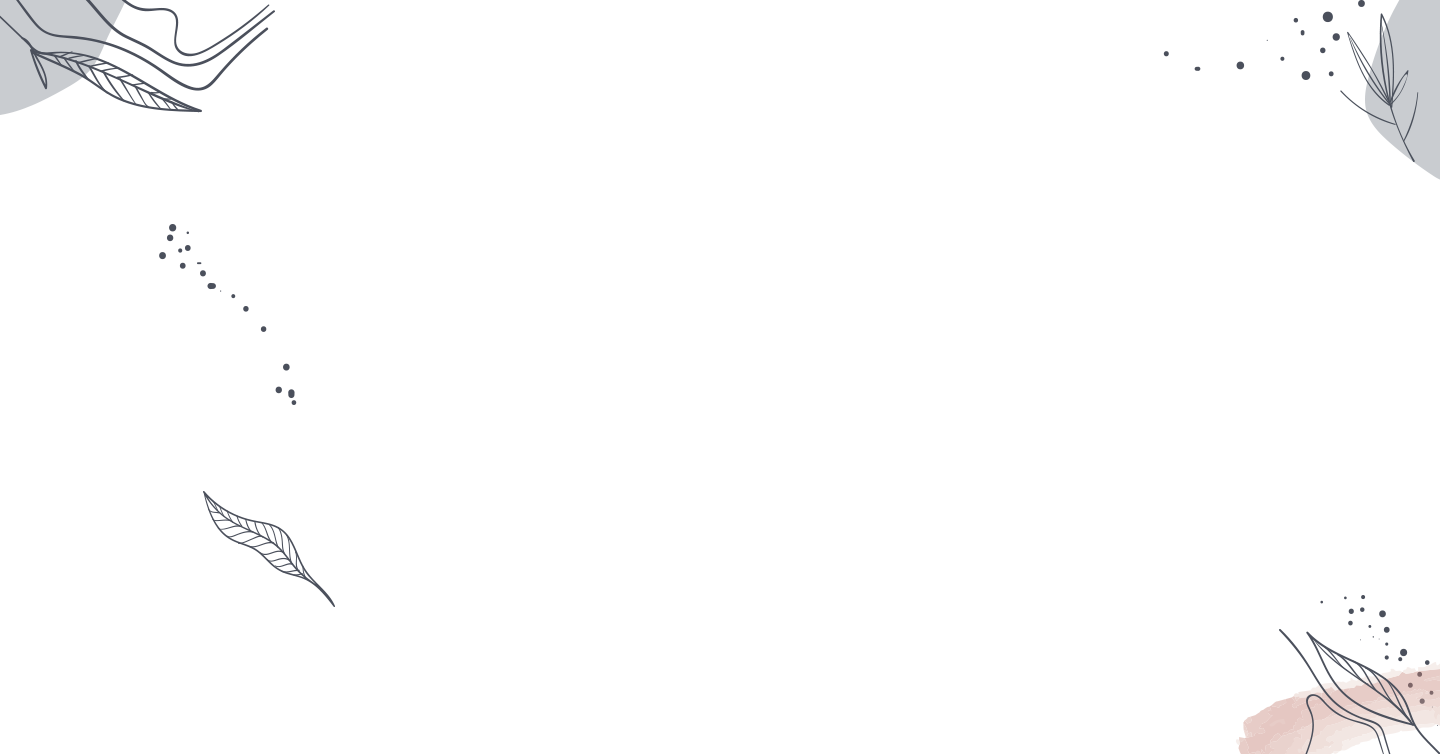
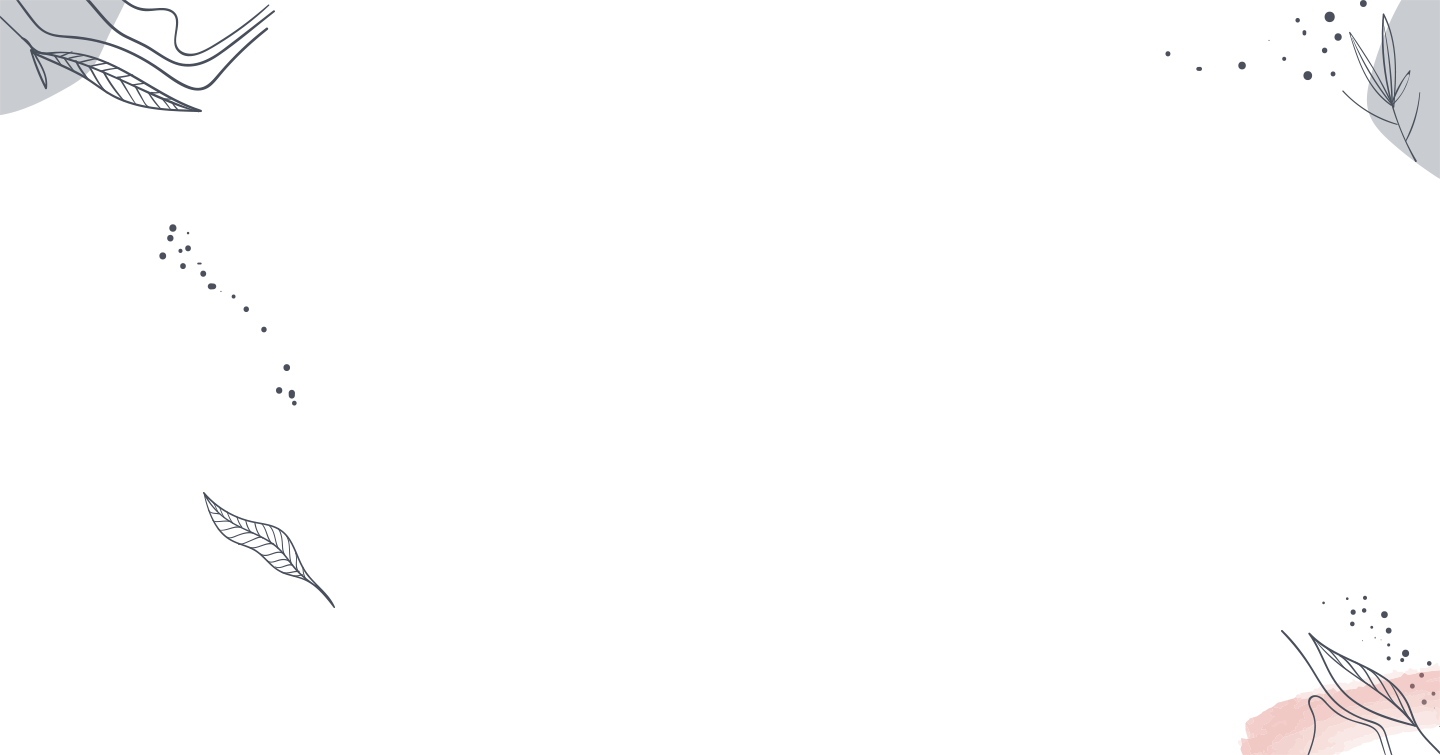
main page + responsive is done

diff --git a/css/style.css b/css/style.css
@@ -75,6 +75,12 @@ h1, h2, h3, h4, h5, h6 {
   width: 100%;
 }
 
+@media (max-width: 767.98px) {
+  .container {
+    padding: 0 15px;
+  }
+}
+
 body {
   font-family: "OpenSans", sans-serif;
   color: #484f5b;
@@ -102,6 +108,18 @@ body._lock {
   text-align: left;
 }
 
+@media (max-width: 1255px) {
+  .title {
+    font-size: calc(30px + 45 * ((100vw - 320px) / 935));
+  }
+}
+
+@media (max-width: 767.98px) {
+  .title {
+    text-align: center;
+  }
+}
+
 .btn {
   display: block;
   font-size: 20.8px;
@@ -112,6 +130,8 @@ body._lock {
   background: #e6c8c3;
   padding: 0.875rem 0px 0.875rem 0px;
   width: 12.6875rem;
+  border: 2px solid #e6c8c3;
+  transition: all 0.3s ease 0s;
 }
 
 @media (max-width: 1255px) {
@@ -120,12 +140,22 @@ body._lock {
   }
 }
 
+.btn:hover {
+  background-color: transparent;
+}
+
+.btn:hover a {
+  color: #d6b4ae;
+}
+
 .header {
   position: fixed;
   width: 100%;
   padding-top: 27px;
   padding-bottom: 27px;
-  min-height: 85px;
+  min-height: 95px;
+  max-height: 136px;
+  background-color: #fff;
 }
 
 @media (max-width: 1255px) {
@@ -375,38 +405,81 @@ body._touch .menu__arrow {
 }
 
 .main {
-  background: url(../../img/main/back-bg.png) center center/contain no-repeat;
-  padding-top: 85px;
-  border: 1px solid red;
+  background: url(../../img/main/back-bg.png);
+  background-repeat: no-repeat;
+  background-size: cover;
+  background-position-x: center;
+  background-position-y: 136px;
+  padding-top: 136px;
+  padding-bottom: 30px;
+}
+
+@media (max-width: 1255px) {
+  .main {
+    background-position-y: calc(95px + 41 * ((100vw - 320px) / 935));
+  }
+}
+
+@media (max-width: 1255px) {
+  .main {
+    padding-top: calc(95px + 41 * ((100vw - 320px) / 935));
+  }
+}
+
+@media (max-width: 1255px) {
+  .main {
+    padding-bottom: calc(15px + 15 * ((100vw - 320px) / 935));
+  }
 }
 
 .main__row {
   display: flex;
   justify-content: center;
   align-items: center;
-  padding-bottom: 38px;
-  padding-top: 85px;
-}
-
-@media (max-width: 1255px) {
-  .main__row {
-    padding-bottom: calc(15px + 23 * ((100vw - 320px) / 935));
-  }
-}
-
-@media (max-width: 1255px) {
-  .main__row {
-    padding-top: calc(45px + 40 * ((100vw - 320px) / 935));
-  }
 }
 
 .main__image {
-  margin-right: 148px;
+  background: url(../../img/main/bg.webp) center bottom/cover no-repeat;
+  width: 600px;
+  height: 626px;
+  padding-right: 148px;
+  flex: 0 0 50%;
 }
 
 @media (max-width: 1255px) {
   .main__image {
-    margin-right: calc(80px + 68 * ((100vw - 320px) / 935));
+    width: calc(300px + 300 * ((100vw - 320px) / 935));
+  }
+}
+
+@media (max-width: 1255px) {
+  .main__image {
+    height: calc(310px + 316 * ((100vw - 320px) / 935));
+  }
+}
+
+@media (max-width: 1255px) {
+  .main__image {
+    padding-right: calc(10px + 138 * ((100vw - 320px) / 935));
+  }
+}
+
+@media (max-width: 767.98px) {
+  .main__image {
+    display: none;
+  }
+}
+
+.main__body {
+  flex: 1 1 50%;
+}
+
+@media (max-width: 767.98px) {
+  .main__body {
+    display: flex;
+    flex-direction: column;
+    justify-content: center;
+    align-items: center;
   }
 }
 

diff --git a/index.html b/index.html
@@ -55,7 +55,7 @@
 				</div>
 				<nav class="menu__body">
 					<ul class="menu__list">
-						<li><a data-goto="" href="#" class="menu__link">Home</a></li>
+						<li><a data-goto="section-1" href="#" class="menu__link">Home</a></li>
 						<li><a data-goto="" href="#" class="menu__link">About</a></li>
 						<li>
 							<a data-goto="" href="#" class="menu__link">Programms</a>
@@ -81,11 +81,11 @@
 			</nav>
 		</div>
 	</header>
-	<section class="main">
+	<section class="main section-1">
 		<div class="container">
 			<div class="main__row">
 				<div class="main__image">
-					<img src="./img/main/bg.webp" alt="Lady">
+					<!-- <img src="./img/main/bg.webp" alt="Lady"> -->
 				</div>
 				<div class="main__body">
 					<h1 class="main__title title">
